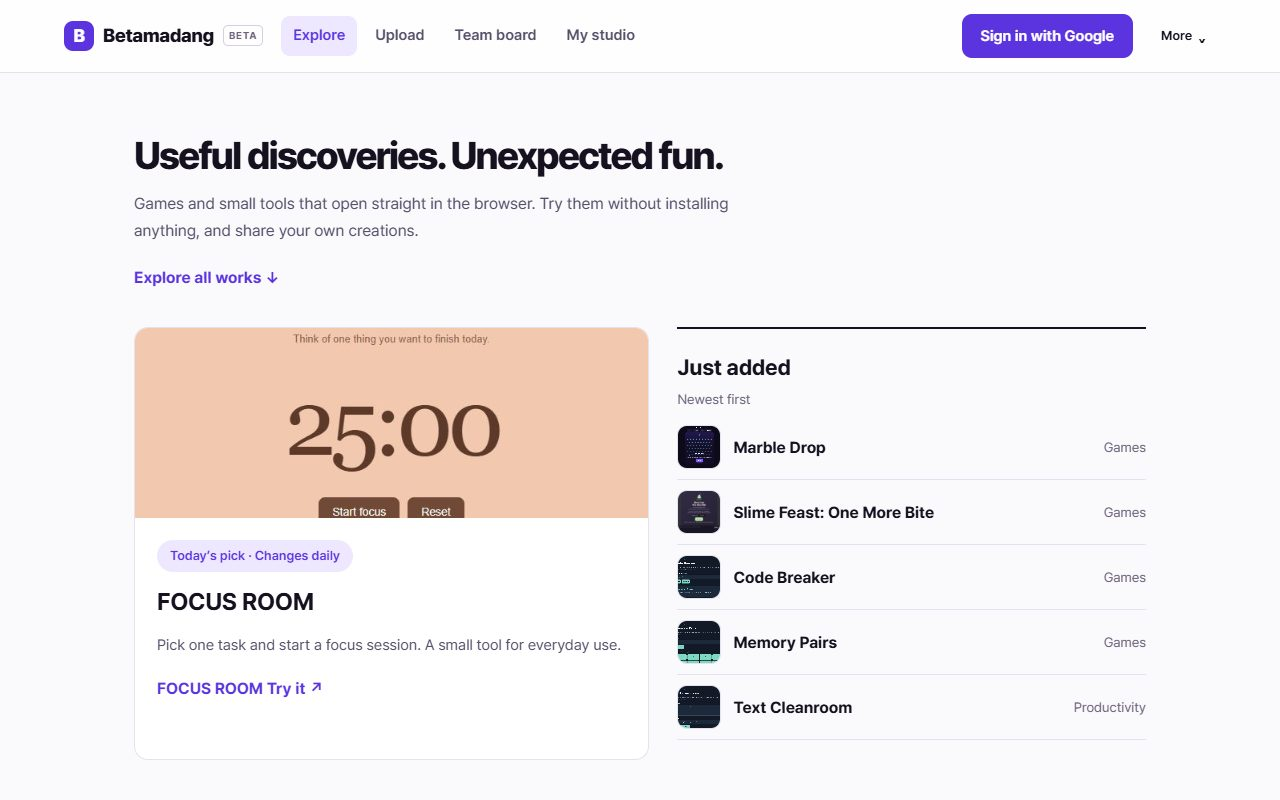
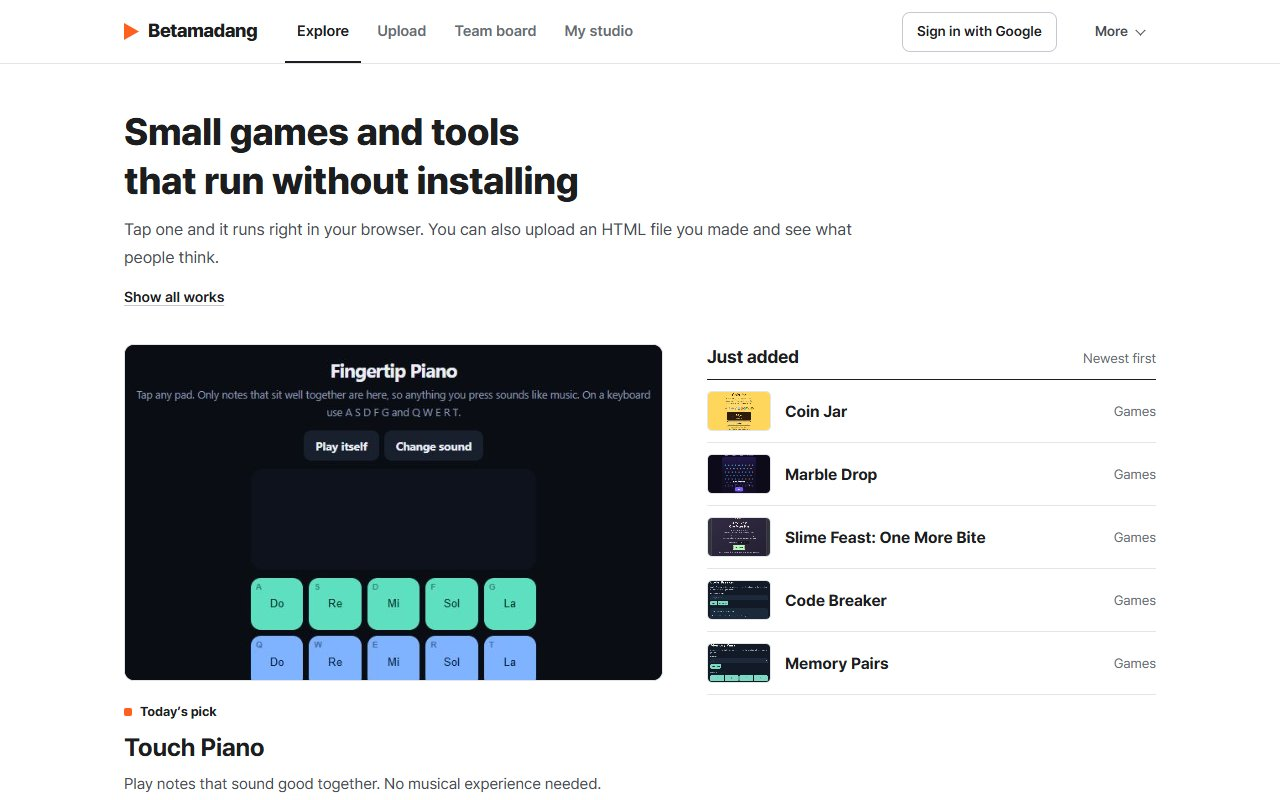
Add Coin Jar, the site definition and a guide for AI-assisted builds
Refreshes the screenshots to the new design, opens with the same one-line
definition the site uses, and points people building with an AI assistant
to the guide that lists what the sandboxed player blocks.

diff --git a/README.md b/README.md
@@ -2,11 +2,11 @@
 
 ### Small tools, playful experiments, and a team for your prototype.
 
-A quick calculation. A tidier list. One more round of a game. **Try small HTML creations in your browser, share what you make, and find people to build it further.**
+Betamadang is a free collection of small HTML games and tools that run right in the browser, with no install or sign-up. Sign in with Google to upload a single HTML file (up to 800KB), get feedback in the comments, and find people for development, design, QA, and planning on the team board. It is available in Korean and English.
 
 [Explore in English](https://betamadang.web.app/en/?utm_source=github&utm_medium=readme&utm_campaign=team_launch) · [한국어로 둘러보기](https://betamadang.web.app/?utm_source=github&utm_medium=readme&utm_campaign=team_launch)
 
-[![Betamadang home: today's pick beside the newest works](images/home.jpg)](https://betamadang.web.app/en/?utm_source=github&utm_medium=readme&utm_campaign=team_launch)
+[![Betamadang home: today's pick beside the works that just arrived](images/home.jpg)](https://betamadang.web.app/en/?utm_source=github&utm_medium=readme&utm_campaign=team_launch)
 
 No installation or sign-in is needed to try a public work. Google sign-in unlocks uploads, downloads, comments, and team posts.
 
@@ -25,13 +25,21 @@ Have something that already runs but needs more hands? Post it on the team board
 
 ## Start with a little surprise
 
+### Coin Jar
+
+Drop coins into a jar. Two matching coins that touch become the next denomination, from 10 won all the way to a golden pig. The daily jar drops the same coins for everyone that day, so you can compare totals with friends.
+
+[Play in English](https://betamadang.web.app/en/play/coin-jar?utm_source=github&utm_medium=readme&utm_campaign=coin_jar) · [한국어로 플레이](https://betamadang.web.app/play/coin-jar?utm_source=github&utm_medium=readme&utm_campaign=coin_jar)
+
+[![Coin Jar in play: coins merging inside the jar](images/coin-jar.jpg)](https://betamadang.web.app/en/play/coin-jar?utm_source=github&utm_medium=readme&utm_campaign=coin_jar)
+
 ### Marble Drop
 
 Aim, drop a marble, and let it fall through a field of pins. Every pin a single drop hits raises the multiplier, so one lucky cascade can beat ten careful shots. Clear every orange pin to reach the next stage.
 
 [Play in English](https://betamadang.web.app/en/play/marble-drop?utm_source=github&utm_medium=readme&utm_campaign=team_launch) · [한국어로 플레이](https://betamadang.web.app/play/marble-drop?utm_source=github&utm_medium=readme&utm_campaign=team_launch)
 
-[![Marble Drop start screen](images/marble-drop.jpg)](https://betamadang.web.app/en/play/marble-drop?utm_source=github&utm_medium=readme&utm_campaign=team_launch)
+[![Marble Drop running on its work page](images/marble-drop.jpg)](https://betamadang.web.app/en/play/marble-drop?utm_source=github&utm_medium=readme&utm_campaign=team_launch)
 
 ### Slime Feast — One More Bite
 
@@ -45,7 +53,7 @@ Move a tiny slime, collect candy, and combine upgrades into a ridiculous build. 
 |---|---|---|
 | [![Name Galaxy preview](images/name-galaxy.jpg)](https://betamadang.web.app/en/play/name-galaxy?utm_source=github&utm_medium=readme&utm_campaign=english_launch) | [![Touch Piano preview](images/touch-piano.jpg)](https://betamadang.web.app/en/play/touch-piano?utm_source=github&utm_medium=readme&utm_campaign=english_launch) | [![Memory Pairs preview](images/memory-pairs.jpg)](https://betamadang.web.app/en/play/memory-pairs?utm_source=github&utm_medium=readme&utm_campaign=english_launch) |
 
-Explore **32 English Studio works**, from tiny games to everyday utilities. The newest ones appear first on the home page.
+Explore **33 English Studio works**, from tiny games to everyday utilities. The newest ones appear first on the home page.
 
 ## Pick your first experiment
 
@@ -58,6 +66,12 @@ Explore **32 English Studio works**, from tiny games to everyday utilities. The 
 | Code Breaker | Crack four different digits in ten guesses | [Play](https://betamadang.web.app/en/play/code-breaker?utm_source=github&utm_medium=readme) |
 
 The [examples](examples/) folder contains these five English HTML files. Open one in a browser to try it locally. They use no external libraries or network calls.
+
+## Build a work with your AI assistant
+
+Many works start as a conversation with an AI assistant. Works run in a sandboxed frame, so a few browser features are unavailable there: storage (localStorage, sessionStorage, IndexedDB, cookies), alert, confirm, prompt, window.open, form submission, external images, fonts, scripts, and API requests, iframes, eval, WebAssembly, and workers. Canvas, WebGL, Web Audio, and keyboard, mouse, and touch input all work.
+
+The [guide](https://betamadang.web.app/en/guide?utm_source=github&utm_medium=readme&utm_campaign=agents) lists these limits and includes a prompt you can paste into your assistant, plus the one-line message a game sends to turn its score into a share card. Try the file in a browser first, then upload it.
 
 ## From idea to team
 
@@ -77,12 +91,12 @@ This is the public showcase, not the private service repository. No community ac
 
 ## 한국어
 
-베타마당은 작은 HTML 도구와 게임을 브라우저에서 바로 실행하고 공유하는 곳입니다. 만들고 있는 작품에 손이 더 필요하면 **팀 모집 게시판**에서 개발자, 디자이너, QA, 기획자를 찾을 수 있습니다.
+베타마당은 설치나 가입 없이 브라우저에서 바로 실행되는 작은 HTML 게임과 도구를 모아둔 곳입니다. Google 로그인 후 HTML 파일 하나(최대 800KB)를 올려 댓글로 피드백을 받고, 팀 모집 게시판에서 개발·디자인·QA·기획을 함께할 사람을 찾을 수 있습니다. 무료이며 한국어와 영어로 볼 수 있습니다.
 
 - 체험은 로그인 없이, 업로드·댓글·모집글은 Google 로그인 후 쓸 수 있습니다.
 - 팀 모집은 게시판 하나에 역할 표시를 달아 모읍니다. 작품 페이지의 "팀원 구해요"로 바로 모집글을 쓸 수 있습니다.
 - 연락은 댓글이나 카카오 오픈채팅으로 주고받습니다. 연락처와 개인정보는 본문에 적지 않고, 베타마당은 돈 거래를 중간에서 받거나 보증하지 않습니다.
 
-[베타마당 둘러보기](https://betamadang.web.app/?utm_source=github&utm_medium=readme&utm_campaign=team_launch) · [팀 모집 게시판](https://betamadang.web.app/team?utm_source=github&utm_medium=readme&utm_campaign=team_launch) · [글쓰기 규칙](https://betamadang.web.app/team/posting-rules?utm_source=github&utm_medium=readme&utm_campaign=team_launch)
+[짤랑 저금통](https://betamadang.web.app/play/coin-jar?utm_source=github&utm_medium=readme&utm_campaign=coin_jar) · [작품 만들어 올리는 법](https://betamadang.web.app/guide?utm_source=github&utm_medium=readme&utm_campaign=agents) · [베타마당 둘러보기](https://betamadang.web.app/?utm_source=github&utm_medium=readme&utm_campaign=team_launch) · [팀 모집 게시판](https://betamadang.web.app/team?utm_source=github&utm_medium=readme&utm_campaign=team_launch) · [글쓰기 규칙](https://betamadang.web.app/team/posting-rules?utm_source=github&utm_medium=readme&utm_campaign=team_launch)
 
 오류가 있다면 작품 주소와 재현 방법을 Issues에 남겨주세요.
